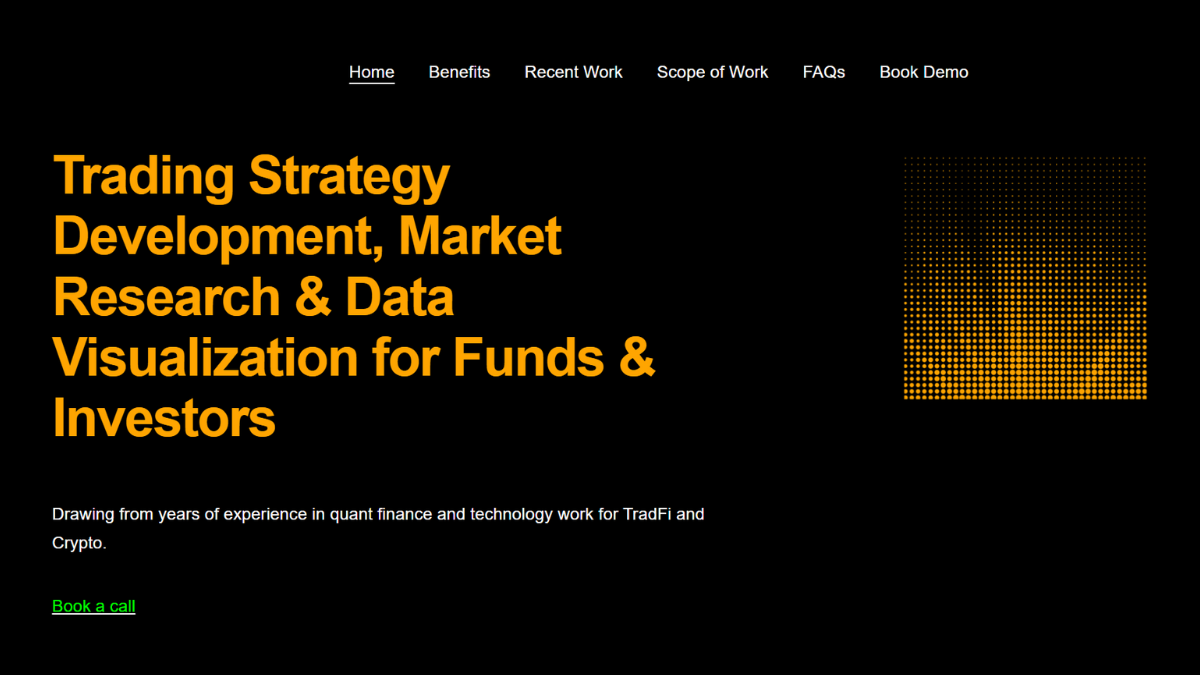
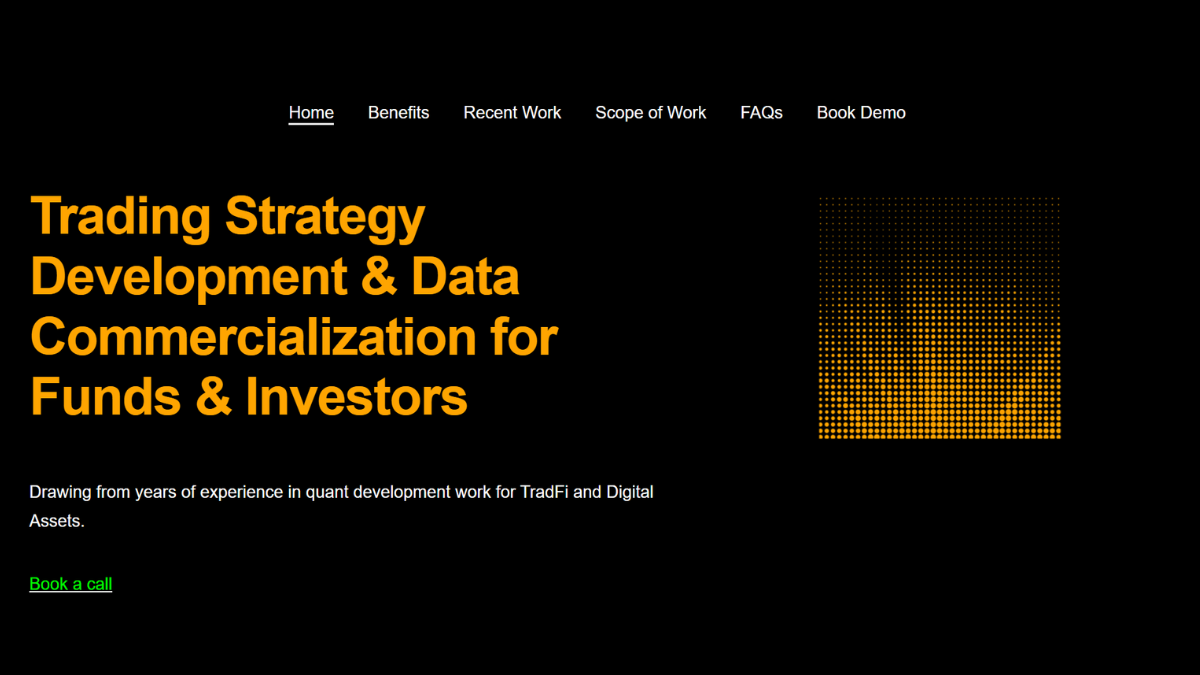
x

diff --git a/index.html b/index.html
@@ -230,7 +230,7 @@
       </video>
       <p>
         Financial research software company, specializing in providing (1)
-        financial data research and (2) financial tech consulting with
+        financial data research & data commercialization and (2) financial tech consulting with
         performant full-stack development for clients that work around market
         data. What we do is to identify patterns in market data, build and
         deploy tech infrastructure to capture bespoke opportunities.
@@ -246,8 +246,8 @@
           </div>
           <h3 class="card-title">Latent Markets</h3>
           <p>
-            Trading Strategy Development (Stats Arb), Market Research, and
-            Data Visualization for Funds & Investors. Support both TradFi and
+            Trading Strategy Development (Stats Arb) and
+            Data Commercialization for Funds & Investors. Support both TradFi and
             Digital Assets.
           </p>
           <p>
@@ -268,10 +268,9 @@
           <p>
             Financial Tech Consulting to provide performant full stack
             development, with comprehensive system design, new product
-            development and AI integrations. Also help to build full remote
+            development and AI integrations. Option to help to build full remote
             engineering teams through
-            <a href="https://www.workneticsglobal.com/" target="_blank">Worknetics</a>. Case studies available upon
-            request.
+            <a href="https://www.workneticsglobal.com/" target="_blank">Worknetics</a>.
           </p>
           <p>
             <a href="https://calendar.google.com/calendar/u/0/appointments/schedules/AcZssZ23ZqccEbWXXt1RD8SxoxRzXVqSil0mRU3rWW2mF2LkjU-k0eH-WvyjjlYLp2zCVQ_D4bmDS4oR"
